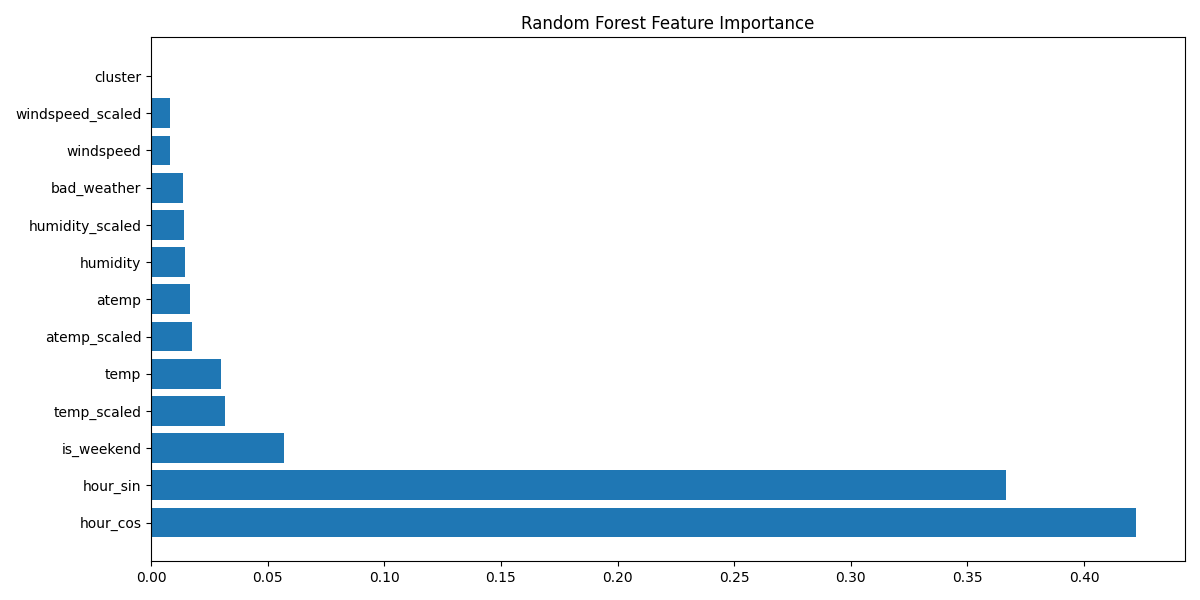
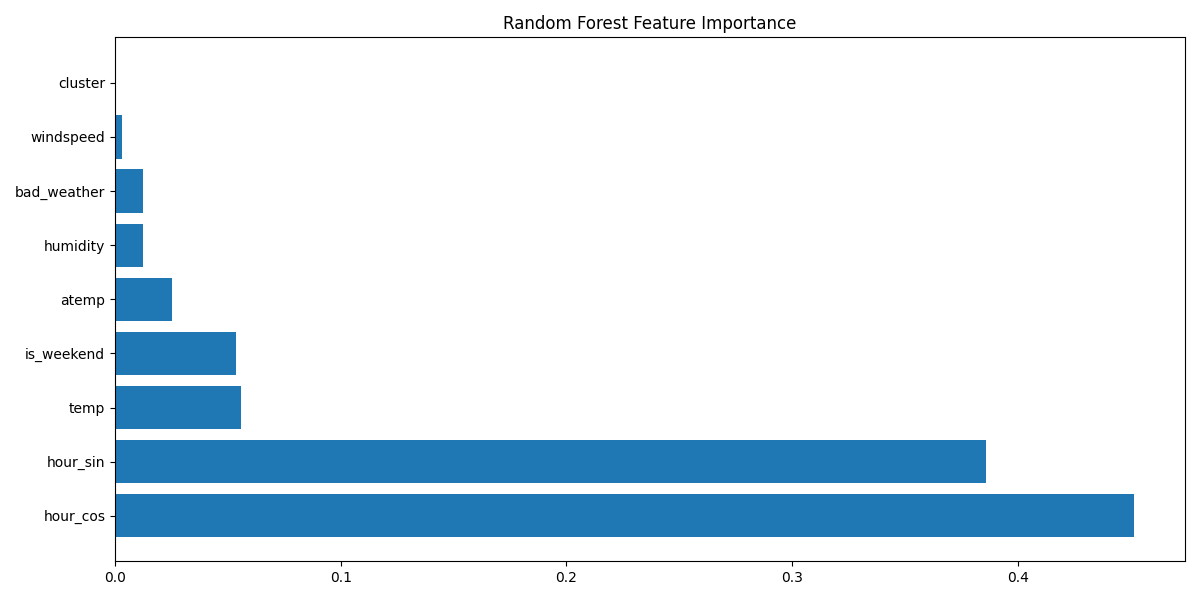
final creo, esta mas decente ahora

diff --git a/Bike Sharing Demand/v4.py b/Bike Sharing Demand/v4.py
@@ -28,7 +28,6 @@ import warnings
 # registered - number of registered user rentals initiated
 # count - number of total rentals
 
-warnings.filterwarnings("ignore")
 
 # Load data
 train = pd.read_csv("./input/train.csv")
@@ -84,7 +83,7 @@ test["cluster"] = DBSCAN(eps=eps, min_samples=5).fit_predict(
     test[["hour", "day_of_week"]]
 )
 
-# Visualize clusters
+# Visualize clusters gpt (no cacho)
 plt.figure(figsize=(12, 6))
 for c in train["cluster"].unique():
     cluster_data = train[train["cluster"] == c]
@@ -99,50 +98,41 @@ plt.grid(True)
 plt.savefig("temporal_clusters.png")
 print("Saved cluster visualization")
 
-# ====================== DATA PREPROCESSING ======================
+# PROCESS DATA (add missing values)
 # Handle missing values
 numeric_features = ["temp", "atemp", "humidity", "windspeed"]
-imputer = SimpleImputer(strategy="median")
-train[numeric_features] = imputer.fit_transform(train[numeric_features])
-test[numeric_features] = imputer.transform(test[numeric_features])
+imputer = SimpleImputer(strategy="median")  # replace missing values with median
+train[numeric_features] = imputer.fit_transform(
+    train[numeric_features]
+)  # add missing values
+test[numeric_features] = imputer.transform(test[numeric_features])  # add missing values
 
-# Scale features
-scaler = StandardScaler()
-scaled_cols = [f"{col}_scaled" for col in numeric_features]
-train_scaled = scaler.fit_transform(train[numeric_features])
-test_scaled = scaler.transform(test[numeric_features])
-train = pd.concat(
-    [train, pd.DataFrame(train_scaled, columns=scaled_cols, index=train.index)], axis=1
-)
-test = pd.concat(
-    [test, pd.DataFrame(test_scaled, columns=scaled_cols, index=test.index)], axis=1
-)
-
-# ====================== RANDOM FOREST MODEL ======================
-features = (
-    numeric_features
-    + scaled_cols
-    + ["hour_sin", "hour_cos", "cluster", "is_weekend", "bad_weather"]
-)
+features = numeric_features + [
+    "hour_sin",
+    "hour_cos",
+    "cluster",
+    "is_weekend",
+    "bad_weather",
+]
 
 X = train[features]
 y = np.log1p(train["count"])  # Log-transform target
 
-# Train-test split
+# Train-test split 80/20
 X_train, X_val, y_train, y_val = train_test_split(X, y, test_size=0.2, random_state=42)
 
-# Optimized Random Forest
+# Keep depth at 7 to avoid overfitting
 rf = RandomForestRegressor(
-    n_estimators=200, max_depth=12, min_samples_split=5, random_state=42, n_jobs=-1
+    n_estimators=200, max_depth=7, min_samples_split=5, random_state=42, n_jobs=-1
 )
 rf.fit(X_train, y_train)
 
-# ====================== EVALUATION ======================
+# Results ~.5 is good enough
 val_pred = np.expm1(rf.predict(X_val))  # Reverse log transform
 rmsle = np.sqrt(mean_squared_log_error(np.expm1(y_val), val_pred))
-print(f"\nValidation RMSLE: {rmsle:.4f}")
+print(f"\nValidation RMSLE: {rmsle}")
 
-# Feature importance
+# Feature importance (for future improvs)
 plt.figure(figsize=(12, 6))
 importances = rf.feature_importances_
 sorted_idx = np.argsort(importances)[::-1]
